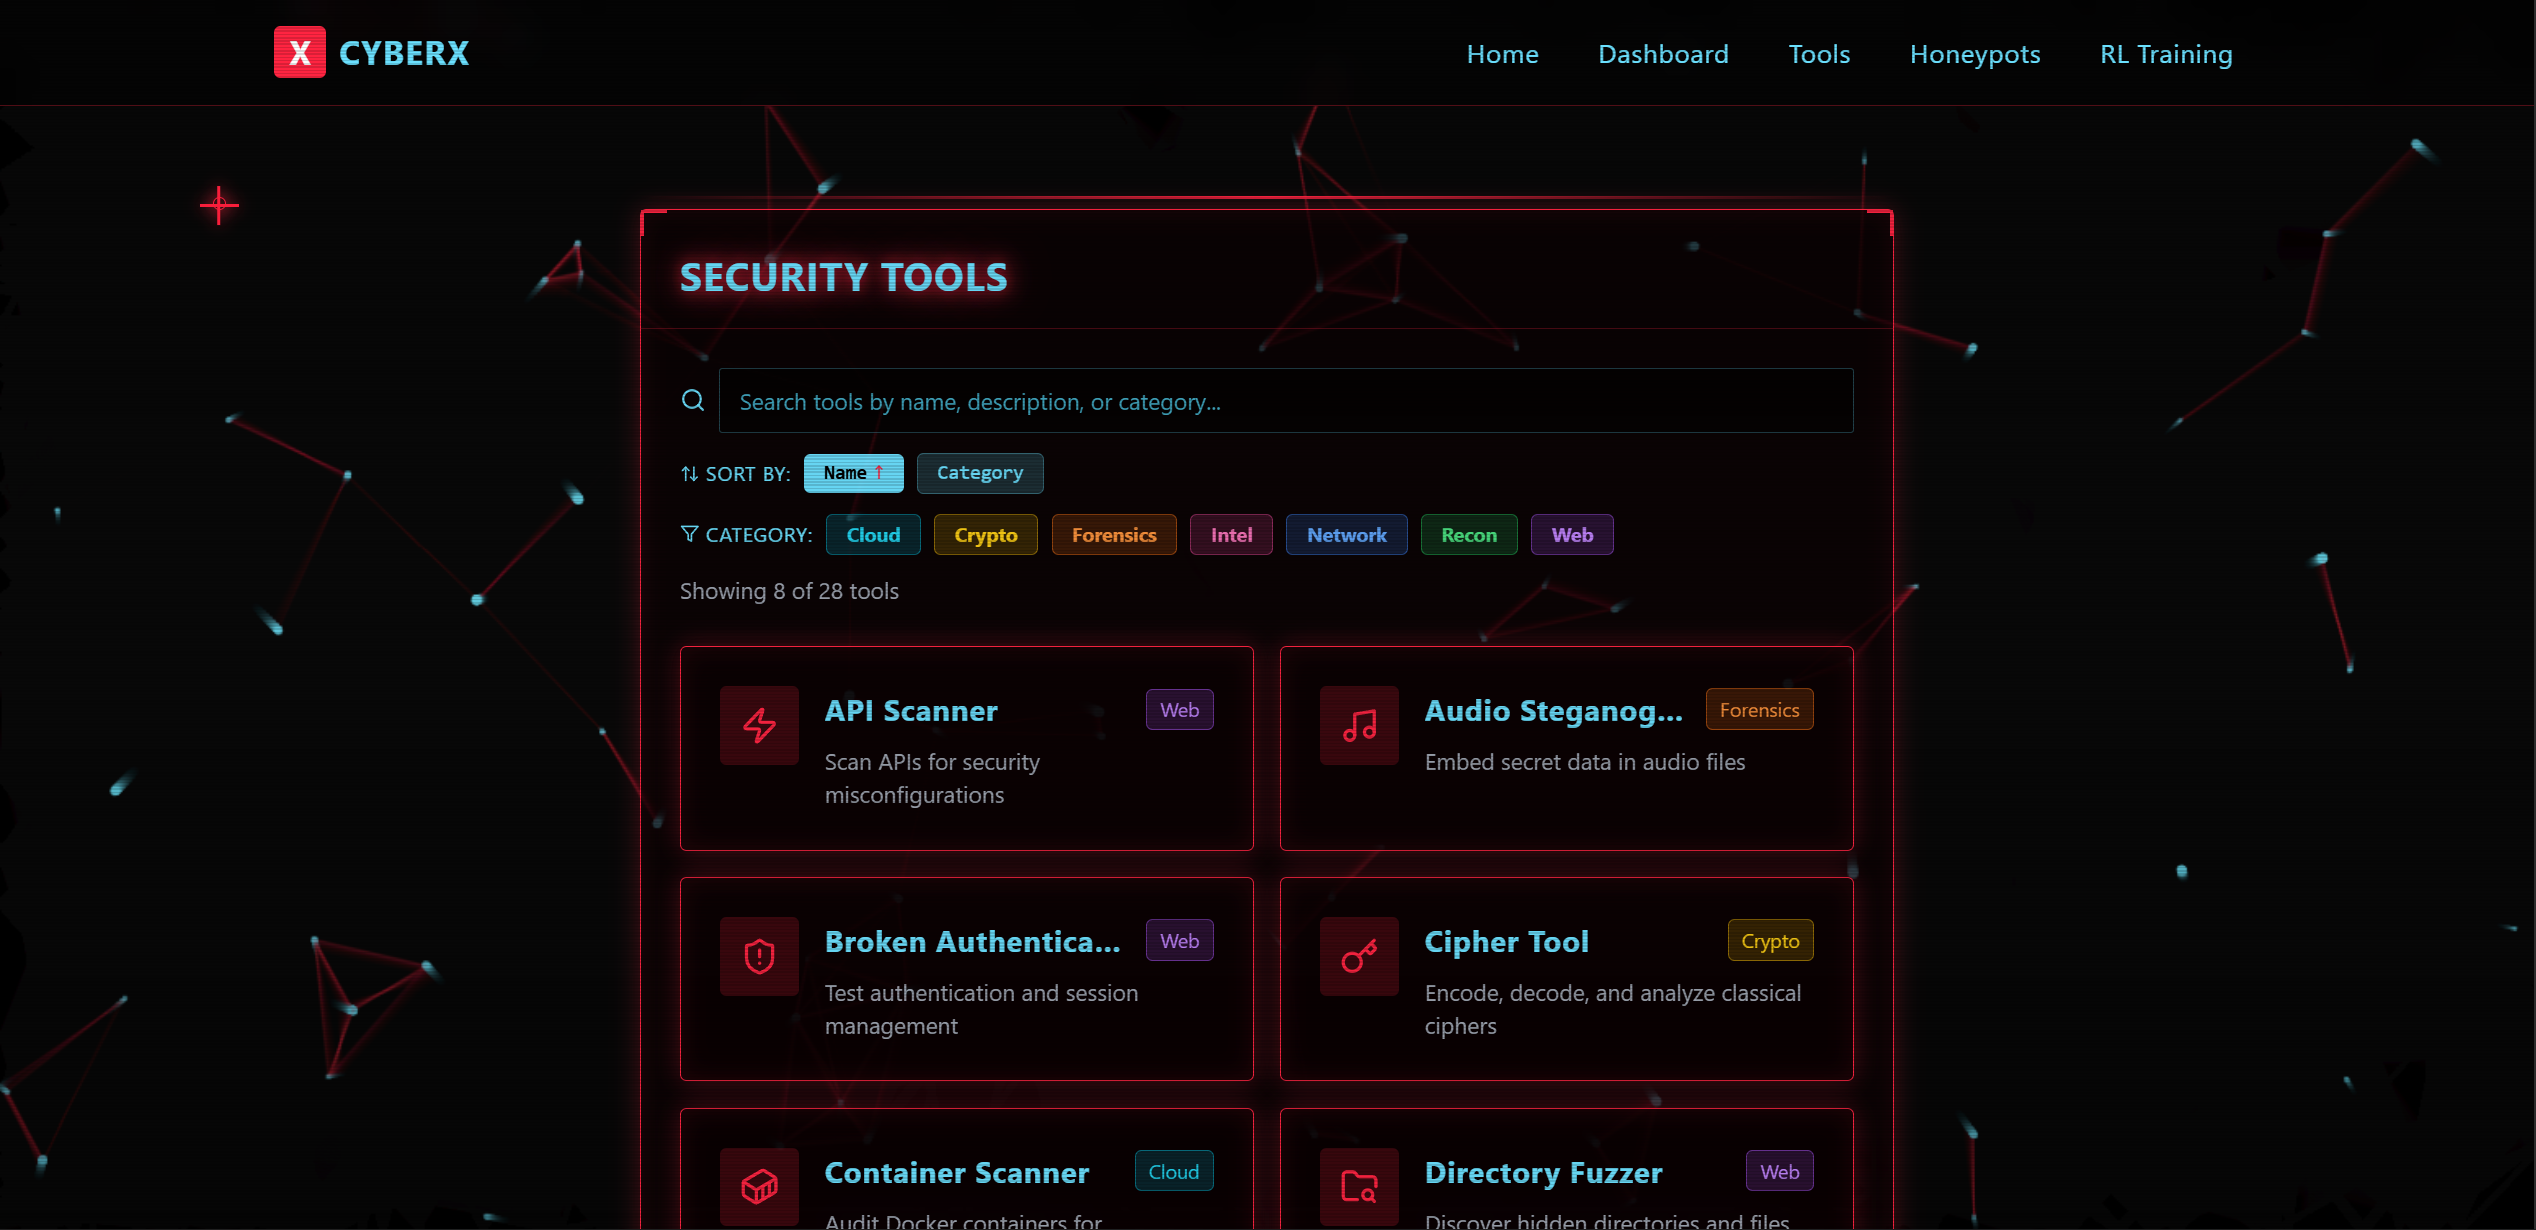
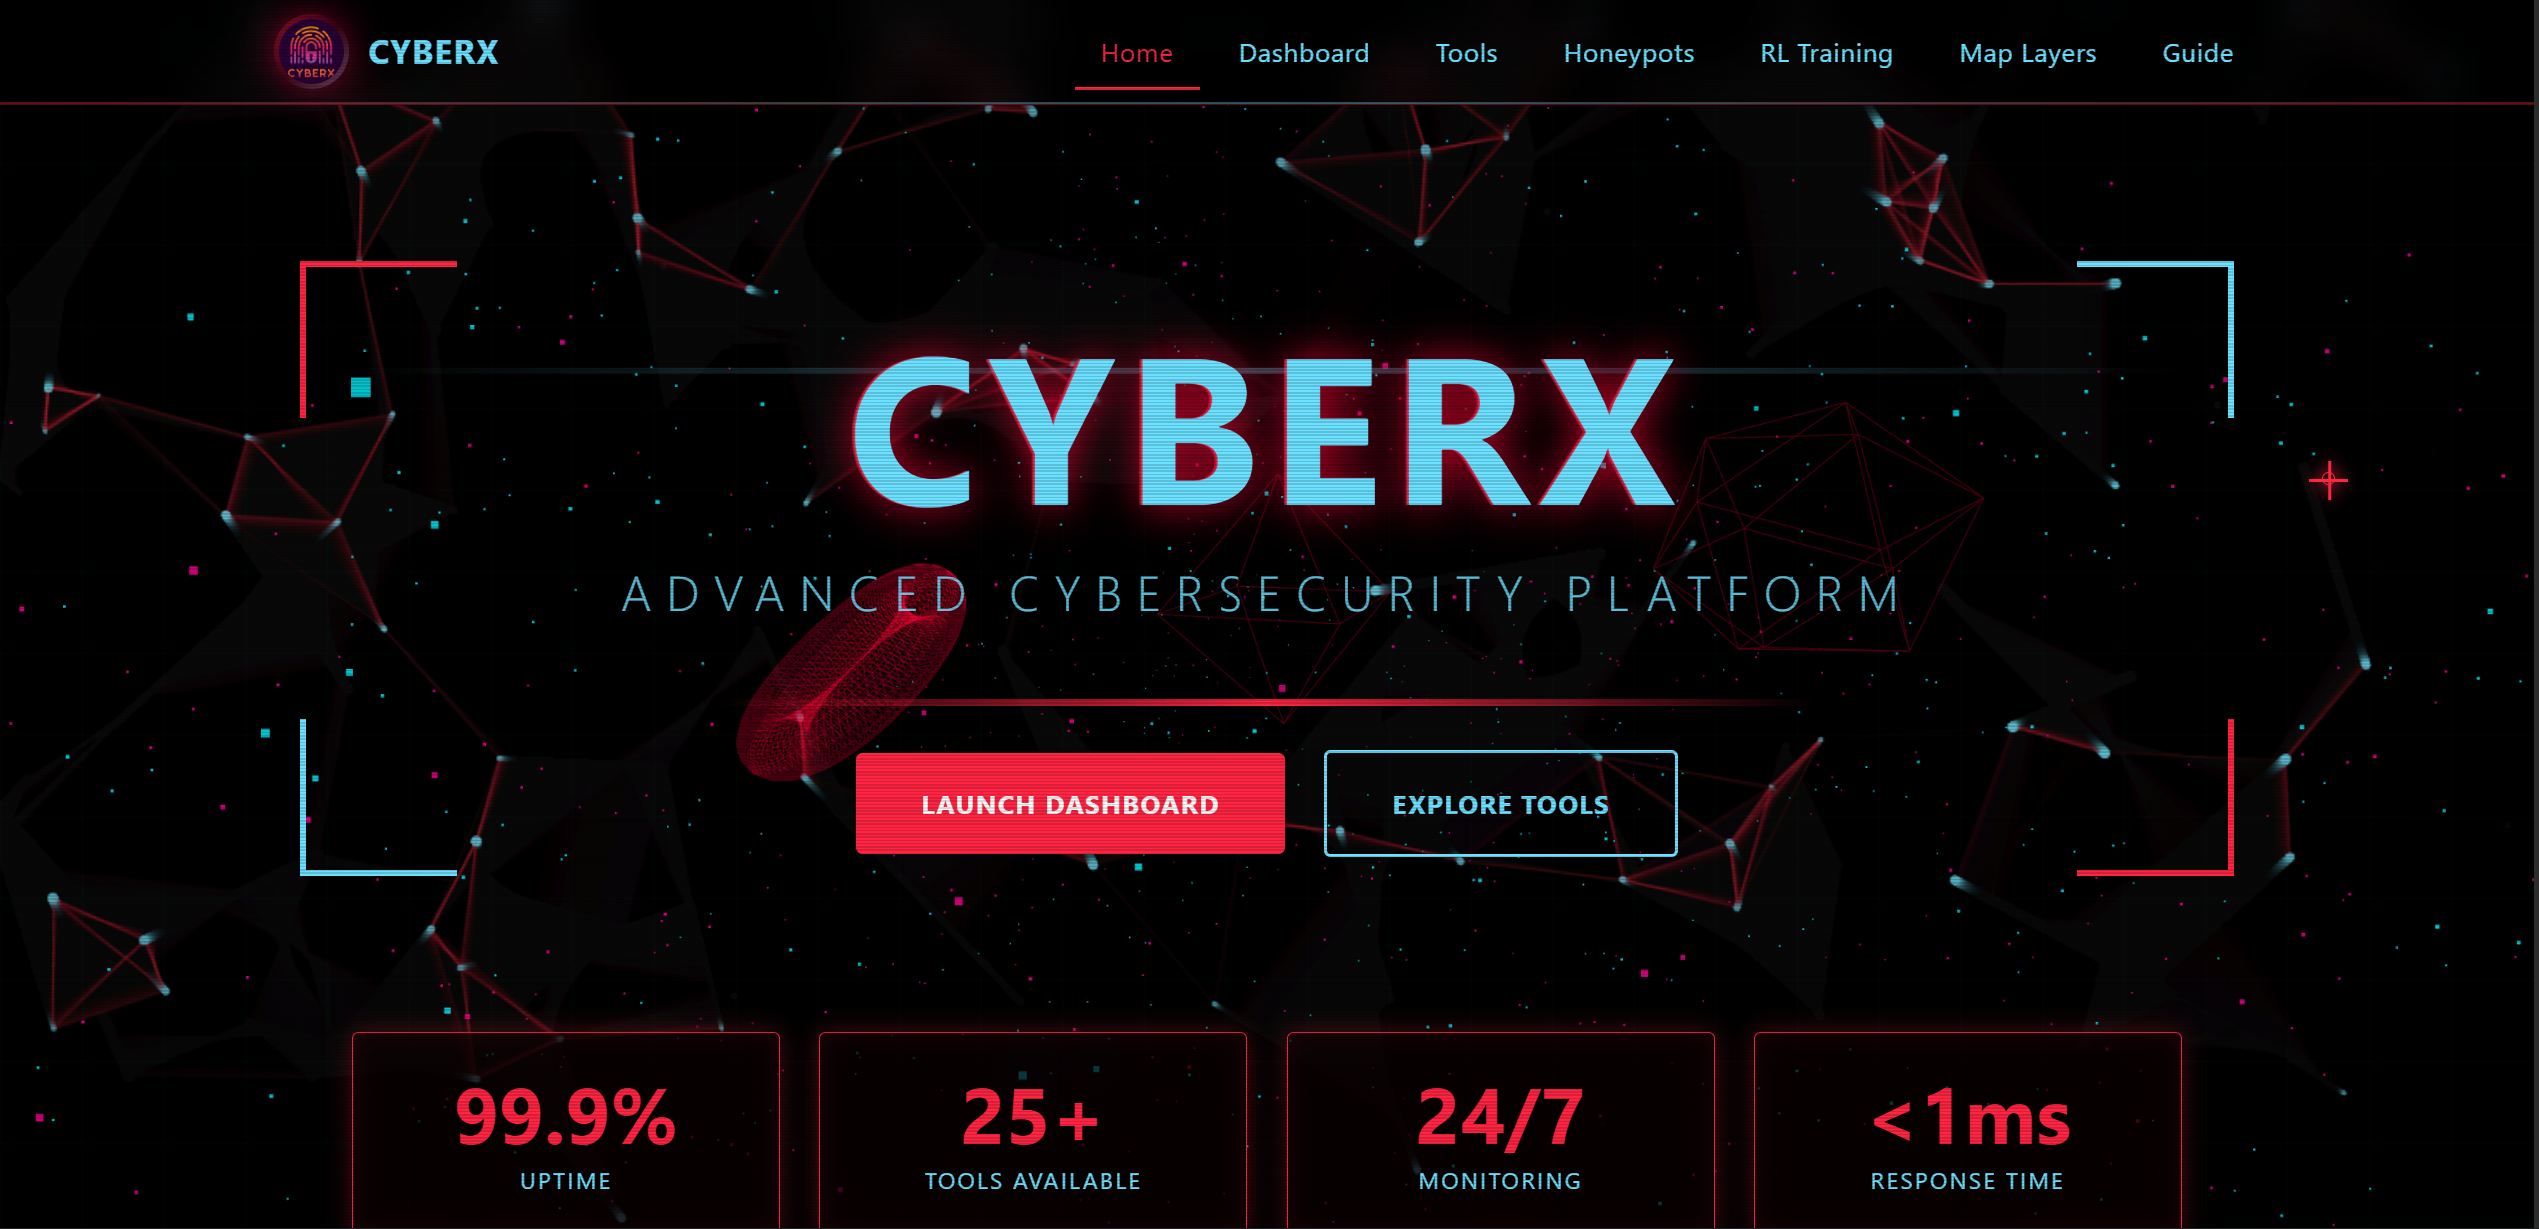
projects and resume updated

diff --git a/src/User.tsx b/src/User.tsx
@@ -9,13 +9,13 @@ const Info = {
 
 const ProjectInfo = [
     {
-        title: "Serenity Gardens",
-        desc: "Serenity Gardens is a dynamic, full-stack web platform designed to showcase and manage a family-owned garden estate. Built with the MERN stack (MongoDB, Express, React, Node.js) and styled using TailwindCSS, it features a modern, mobile-friendly interface for both visitors and administrators. Users can explore the rich biodiversity of the estate, browse a multimedia gallery, read reviews, and shop for home-grown produce, fish, and flowers. The Shop module includes secure user authentication, a persistent cart, and payment options via UPI, cash, or card. Admins can log in to manage product listings and view orders. Serenity Gardens blends natural beauty with technical sophistication for an engaging and immersive experience.",
-        image: "SerenityGardens.png",
+        title: "CyberX",
+        desc: "CyberX is a comprehensive web-based cybersecurity toolkit designed for learning, analysis, and simulation. It integrates offensive and defensive tools into a unified platform, including container and Kubernetes scanners, cryptography utilities (hashing, cipher, RSA/AES, JWT), steganography modules (image, audio, metadata), OSINT tools (breach checker, Google dorking), and advanced features like network packet analysis. The project emphasizes real-world applicability by combining security assessments, intelligence gathering, and defensive simulations with a clean cyberpunk-themed UI. Its modular backend enables scalability, while the frontend provides interactive, visually consistent components for professional-grade demonstrations.",
+        image: "Cyber-X.png",
         live: true,
-        technologies: ["React","TypeScript", "Tailwind", "Node.js", "MongoDB", "Express.js"],
-        link: "https://www.serenitygardens.online/",
-        github: "https://github.com/Bihan-Banerjee/Serenity-Gardens/"
+        technologies: ["React", "TypeScript", "Python", "Wireshark", "Node.js"],
+        link: "https://cyber-x-coral.vercel.app/",
+        github: "https://github.com/Bihan-Banerjee/Cyber-X"
     },
     {
         title: "FortiScan",
@@ -27,13 +27,13 @@ const ProjectInfo = [
         github: "https://github.com/Bihan-Banerjee/AI-Code-Security"
     },
     {
-        title: "CyberX",
-        desc: "CyberX is a comprehensive web-based cybersecurity toolkit designed for learning, analysis, and simulation. It integrates offensive and defensive tools into a unified platform, including container and Kubernetes scanners, cryptography utilities (hashing, cipher, RSA/AES, JWT), steganography modules (image, audio, metadata), OSINT tools (breach checker, Google dorking), and advanced features like network packet analysis. The project emphasizes real-world applicability by combining security assessments, intelligence gathering, and defensive simulations with a clean cyberpunk-themed UI. Its modular backend enables scalability, while the frontend provides interactive, visually consistent components for professional-grade demonstrations.",
-        image: "Cyber-X.png",
-        live: false,
-        technologies: ["React", "TypeScript", "Python", "Wireshark", "Node.js"],
-        link: "https://github.com/Bihan-Banerjee/Cyber-X",
-        github: "https://github.com/Bihan-Banerjee/Cyber-X"
+        title: "Serenity Gardens",
+        desc: "Serenity Gardens is a dynamic, full-stack web platform designed to showcase and manage a family-owned garden estate. Built with the MERN stack (MongoDB, Express, React, Node.js) and styled using TailwindCSS, it features a modern, mobile-friendly interface for both visitors and administrators. Users can explore the rich biodiversity of the estate, browse a multimedia gallery, read reviews, and shop for home-grown produce, fish, and flowers. The Shop module includes secure user authentication, a persistent cart, and payment options via UPI, cash, or card. Admins can log in to manage product listings and view orders. Serenity Gardens blends natural beauty with technical sophistication for an engaging and immersive experience.",
+        image: "SerenityGardens.png",
+        live: true,
+        technologies: ["React","TypeScript", "Tailwind", "Node.js", "MongoDB", "Express.js"],
+        link: "https://www.serenitygardens.online/",
+        github: "https://github.com/Bihan-Banerjee/Serenity-Gardens/"
     },
     {
         title: "Map-It",